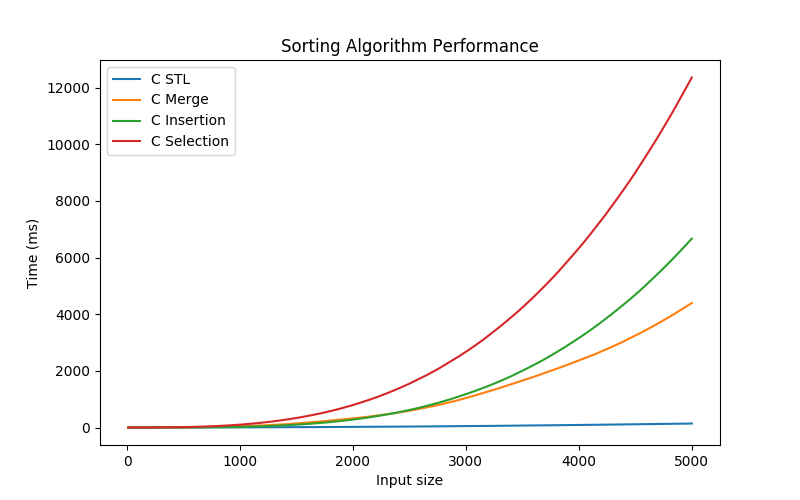
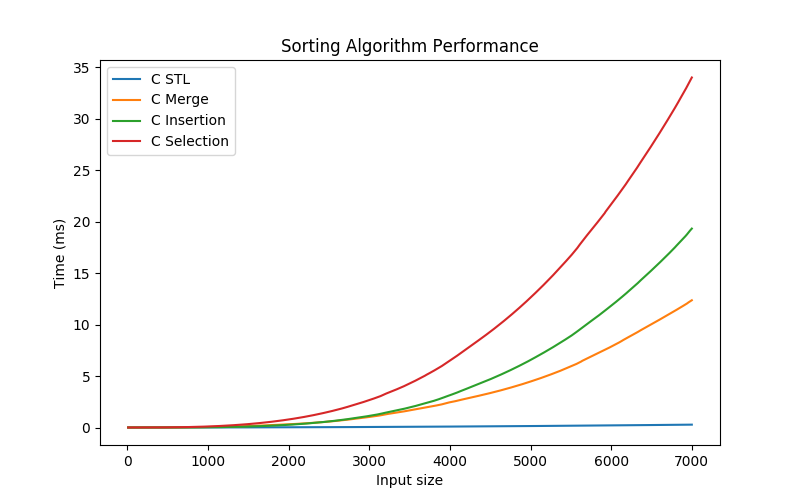
Cleaning up the graph

diff --git a/src/sort_tester.cpp b/src/sort_tester.cpp
@@ -39,7 +39,7 @@ int main(int argc, char** argv){
       perror("./io/rand_input.txt");
     }
 
-    for(int i = 1; i != 501; i++){
+    for(int i = 1; i != 701; i++){
 
       // Average for each sort type.
       chrono::duration<double> stl_average;
@@ -122,10 +122,10 @@ int main(int argc, char** argv){
       }
 // ~~~~~~~~~~~~~~~~~~~~~~~~~~~~~~~~~~~~~~~~~~~~~~~~~~~~~~~~~~~~~~~~~~~~~~~~~~~~
       // Build the vectors for each sorting type..
-      double s = (stl_average.count()*1000)/2.0;
-      double m = (merge_average.count()*1000)/2.0;
-      double is = (insertion_average.count()*1000)/2.0;
-      double sl = (selection_average.count()*1000)/2.0;
+      double s = (stl_average.count())/2.0;
+      double m = (merge_average.count())/2.0;
+      double is = (insertion_average.count())/2.0;
+      double sl = (selection_average.count())/2.0;
 
       stl_times.push_back(s);
       merge_times.push_back(m);

diff --git a/scripts/plot.py b/scripts/plot.py
@@ -11,7 +11,7 @@ insertion_cpp = [float(line.rstrip()) for line in i_file]
 selection_cpp = [float(line.rstrip('\n')) for line in sl_file]
 
 # Number of elements
-x_axis = [(x*10) for x in range(1, 501)]
+x_axis = [(x*10) for x in range(1, 701)]
 
 plt.figure(figsize=(8, 5))
 
@@ -20,7 +20,7 @@ plt.plot(x_axis, merge_cpp, label='C Merge')
 plt.plot(x_axis, insertion_cpp, label='C Insertion')
 plt.plot(x_axis, selection_cpp, label='C Selection')
 
-#plt.axis([0, 3000, 0, 1250])
+#plt.axis([0, 4500, 0, 2])
 plt.title('Sorting Algorithm Performance')
 plt.legend()
 plt.ylabel('Time (ms)')

diff --git a/scripts/gen.py b/scripts/gen.py
@@ -7,7 +7,7 @@ j = 1
 
 fout = open('io/rand_input.txt', 'w')
 
-while j < 501:
+while j < 701:
     for x in range(1, 3):
         for y in range(j*10):
                 if y != j*10 - 1:
